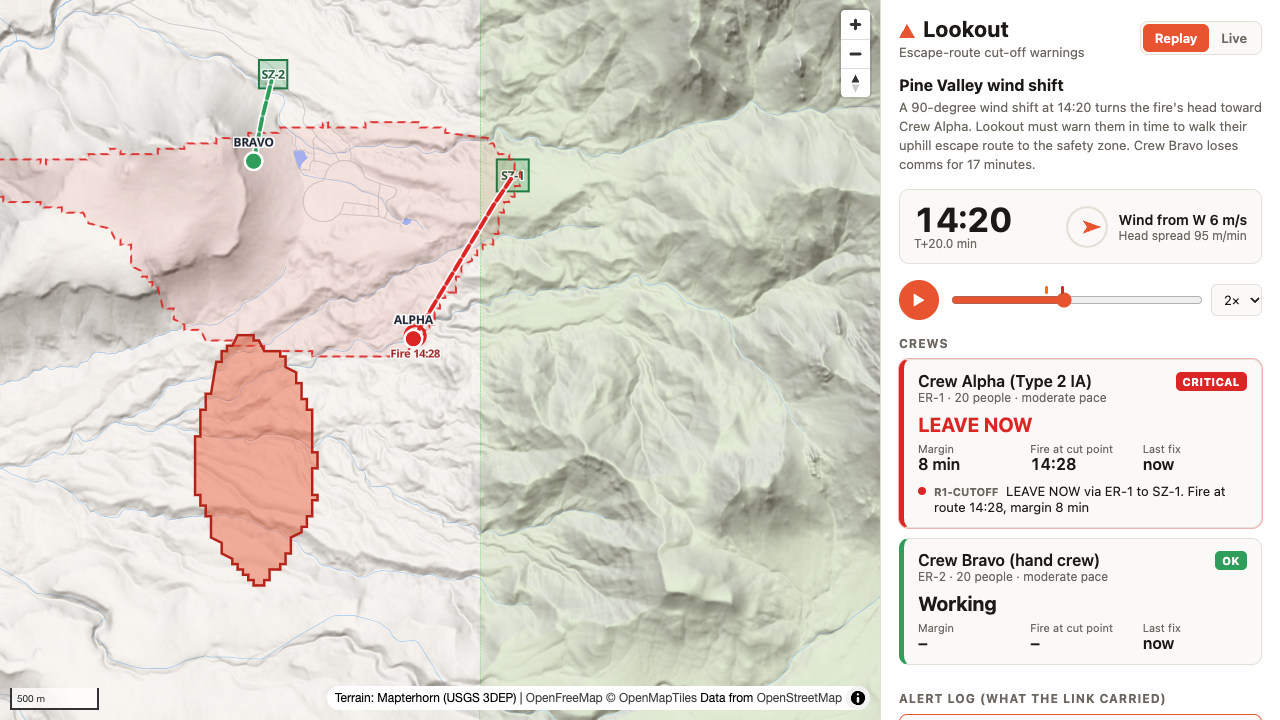
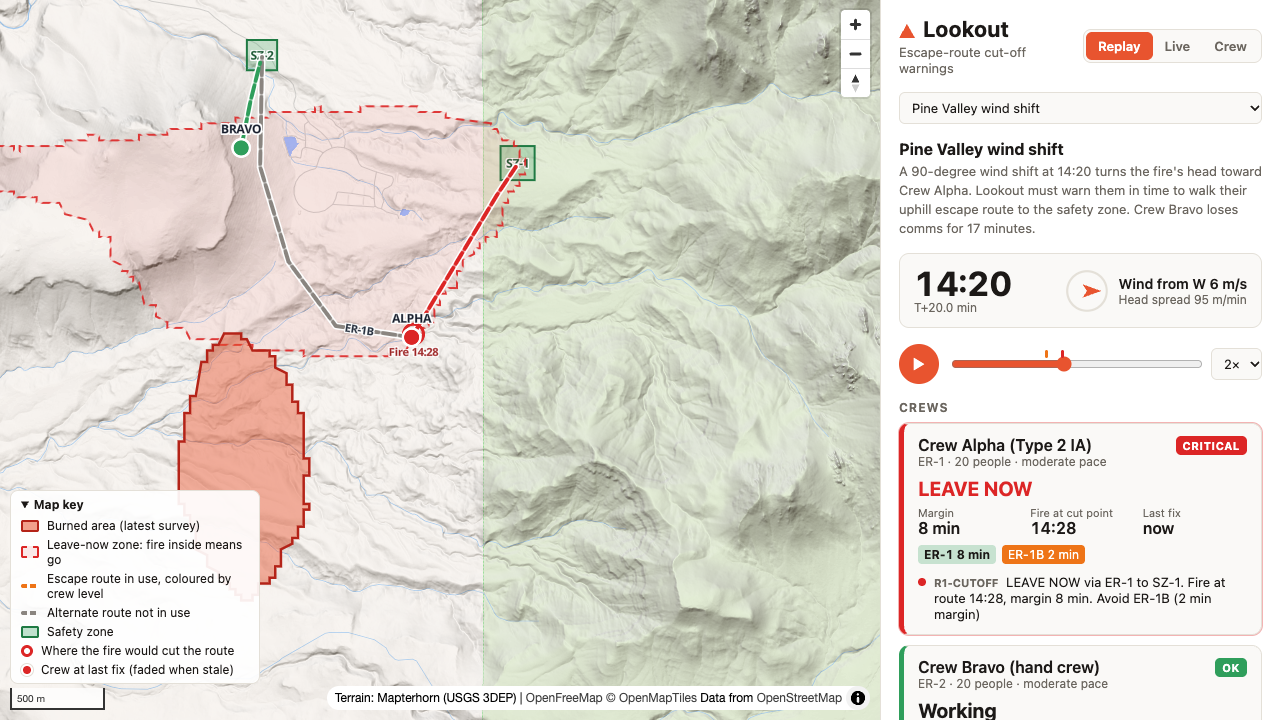
nginx re-resolves the API so a recreated API container does not 502; unchosen alternate routes drawn grey
- Found while recreating the API: nginx resolved 'api' once at startup
  and kept proxying to the old container's address. Docker DNS resolver
  with a variable upstream; verified across a forced recreate.
- Map: a route no crew is using is grey ('alternate, not in use'), never
  safe-green; route margin chips mark under-buffer alternates.
- Refreshed replay GIF and 14:20 still.

diff --git a/web/src/MapView.tsx b/web/src/MapView.tsx
@@ -79,7 +79,8 @@ function layoutData(layout: MapLayout, state: MapState) {
     routes: fc(
       layout.routes.map((r) => ({
         type: "Feature",
-        properties: { id: r.id, level: levelByRoute.get(r.id) ?? "none" },
+        // A route no crew is using right now (an unchosen alternate) is drawn grey, never "safe" green.
+        properties: { id: r.id, level: levelByRoute.get(r.id) ?? "inactive" },
         geometry: { type: "LineString", coordinates: r.path.map(([lon, lat]) => [lon, lat]) },
       })),
     ),
@@ -148,6 +149,7 @@ const levelColor = [
   "watch", LEVEL_COLOR.watch,
   "warning", LEVEL_COLOR.warning,
   "critical", LEVEL_COLOR.critical,
+  "inactive", "#8a8580",
   LEVEL_COLOR.none,
 ] as unknown as maplibregl.DataDrivenPropertyValueSpecification<string>;
 
@@ -365,7 +367,8 @@ function Legend() {
       <ul>
         <li><span className="key key-fire" />Burned area (latest survey)</li>
         <li><span className="key key-leave" />Leave-now zone: fire inside means go</li>
-        <li><span className="key key-route" />Escape route, coloured by crew level</li>
+        <li><span className="key key-route" />Escape route in use, coloured by crew level</li>
+        <li><span className="key key-route-alt" />Alternate route not in use</li>
         <li><span className="key key-zone" />Safety zone</li>
         <li><span className="key key-cut" />Where the fire would cut the route</li>
         <li><span className="key key-crew" />Crew at last fix (faded when stale)</li>

diff --git a/web/src/shared.tsx b/web/src/shared.tsx
@@ -74,7 +74,8 @@ export function CrewCard({ crew, meta }: { crew: CrewView; meta: { name: string;
       {crew.routeMargins && crew.routeMargins.length > 1 && !crew.inSafetyZone && (
         <p className="route-margins">
           {crew.routeMargins.map((r) => (
-            <span key={r.routeId} className={r.routeId === crew.routeId ? "best" : r.marginMin !== null && r.marginMin < 0 ? "cut" : ""}>
+            // Under the 10-minute buffer an alternate is unsafe; below zero the fire beats the crew there.
+            <span key={r.routeId} className={r.routeId === crew.routeId ? "best" : r.marginMin !== null && r.marginMin < 0 ? "cut" : r.marginMin !== null && r.marginMin < 10 ? "unsafe" : ""}>
               {r.routeId} {r.marginMin === null ? "safe" : r.marginMin < 0 ? "cut" : `${Math.round(r.marginMin)} min`}
             </span>
           ))}

diff --git a/web/src/styles.css b/web/src/styles.css
@@ -265,3 +265,5 @@ details.card[open] summary { margin-bottom: 8px; }
 .route-margins span { padding: 2px 6px; border-radius: 4px; background: var(--border); font-variant-numeric: tabular-nums; }
 .route-margins .best { background: color-mix(in srgb, var(--none) 25%, transparent); font-weight: 700; }
 .route-margins .cut { background: var(--critical); color: #fff; }
+.route-margins .unsafe { background: var(--warning); color: #fff; }
+.key-route-alt { height: 4px; background: repeating-linear-gradient(90deg, #8a8580 0 6px, transparent 6px 9px); }

diff --git a/docs/architecture.md b/docs/architecture.md
@@ -111,3 +111,12 @@ Short records of the choices that shape Lookout, why they were made, and what th
 **Scope.** Crew tokens carry the incident they were issued for, because crew ids such as ALPHA repeat across incidents; every incident endpoint and the live hub refuse a crew token from another incident. On the broker, the server and the field simulator have separate accounts, and an ACL lets a real crew device publish only on its own uplink and read only its own downlink.
 
 **Cost.** Dev auth must never be enabled on a reachable deployment. Docker compose binds every port to localhost, the API logs a warning whenever dev sign-in is on outside Development, and startup refuses to run live mode without a signing key of at least 32 characters.
+
+## 14. nginx resolves the API on every request
+
+**Decision.** nginx proxies to a variable upstream through Docker's DNS resolver, re-resolving `api` every 10 seconds.
+
+**Why.** With a fixed `proxy_pass http://api:8080`, nginx resolves the name once at startup. Recreating the API container gave it a new address, and the dashboard returned 502 until nginx itself restarted. Found while recreating the API to enable telemetry.
+
+**Cost.** One DNS lookup every 10 seconds. A WebSocket that is already open stays on the old connection until it reconnects, which SignalR does on its own.
+
